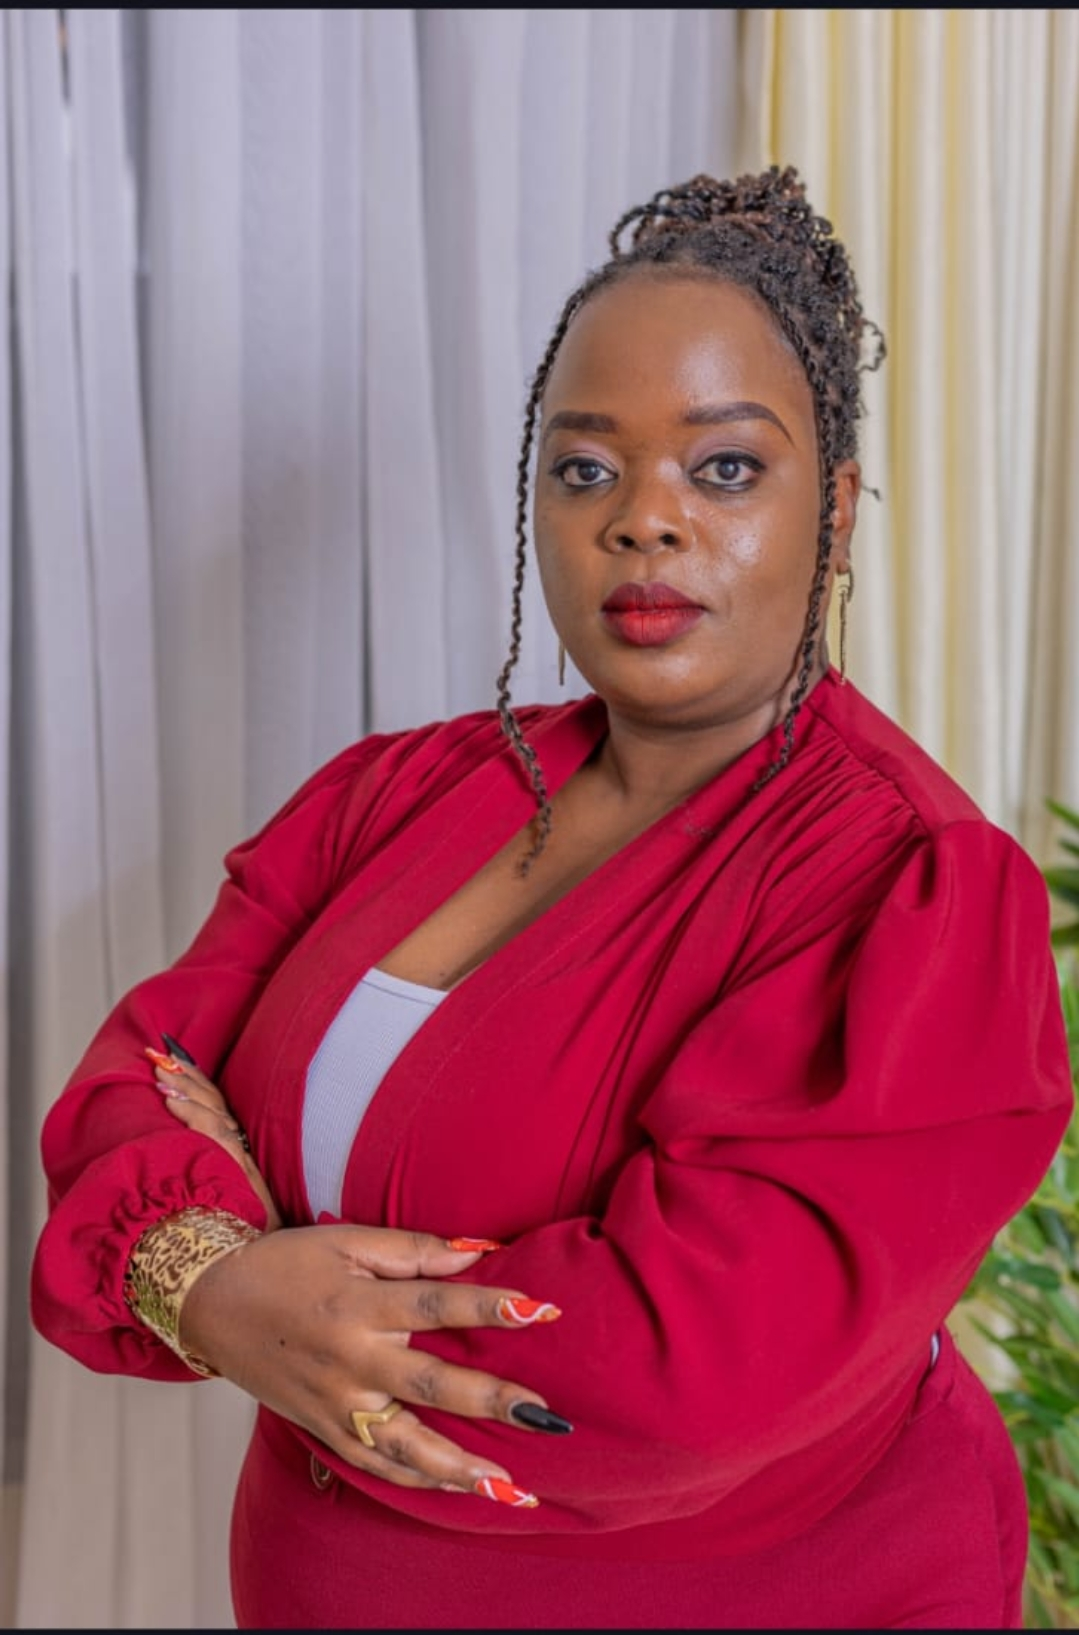
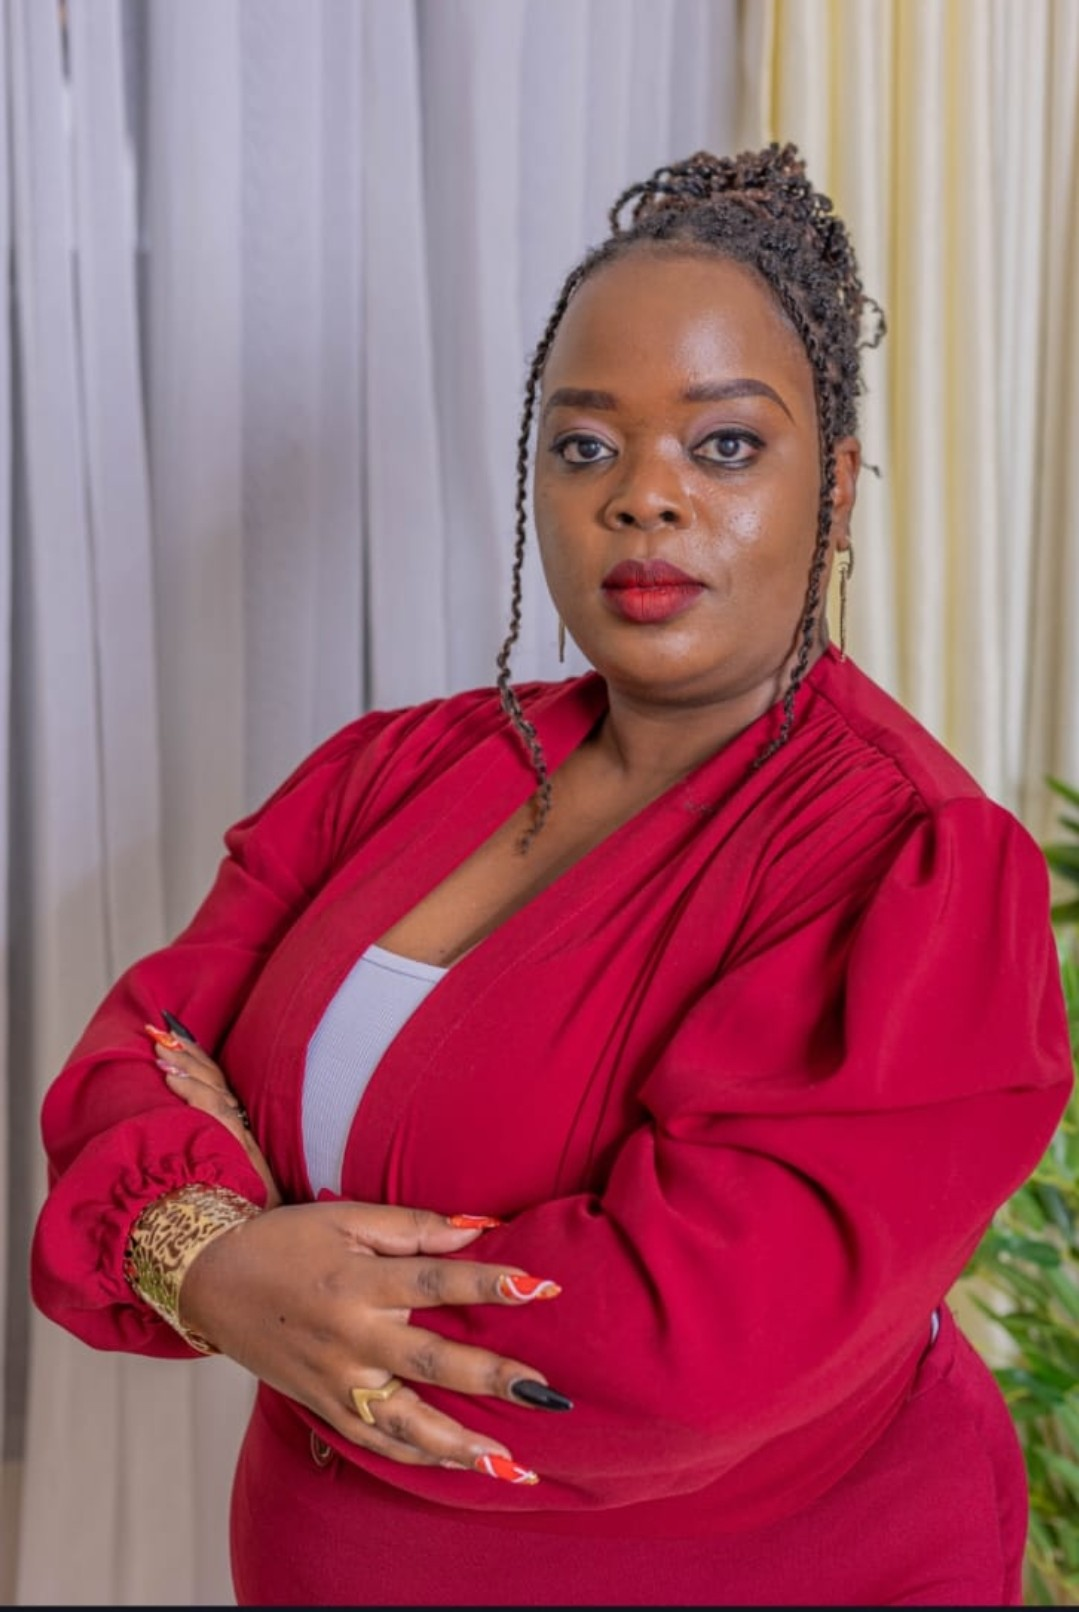
addeed new pages

diff --git a/components/cards/TeamCard.tsx b/components/cards/TeamCard.tsx
@@ -21,7 +21,7 @@ const TeamCard = ({ name, title, imageSrc, linkedInUrl, onReadMore }: TeamCardPr
           alt={name || 'Team member'}
           width={450}
           height={500}
-          className="object-cover object-top w-full max-h-[400px] group-hover:scale-105 transition-transform duration-500"
+          className="object-cover object-top w-full max-h-[410px] group-hover:scale-105 transition-transform duration-500"
         />
 
         {/* Name/Title Box */}
